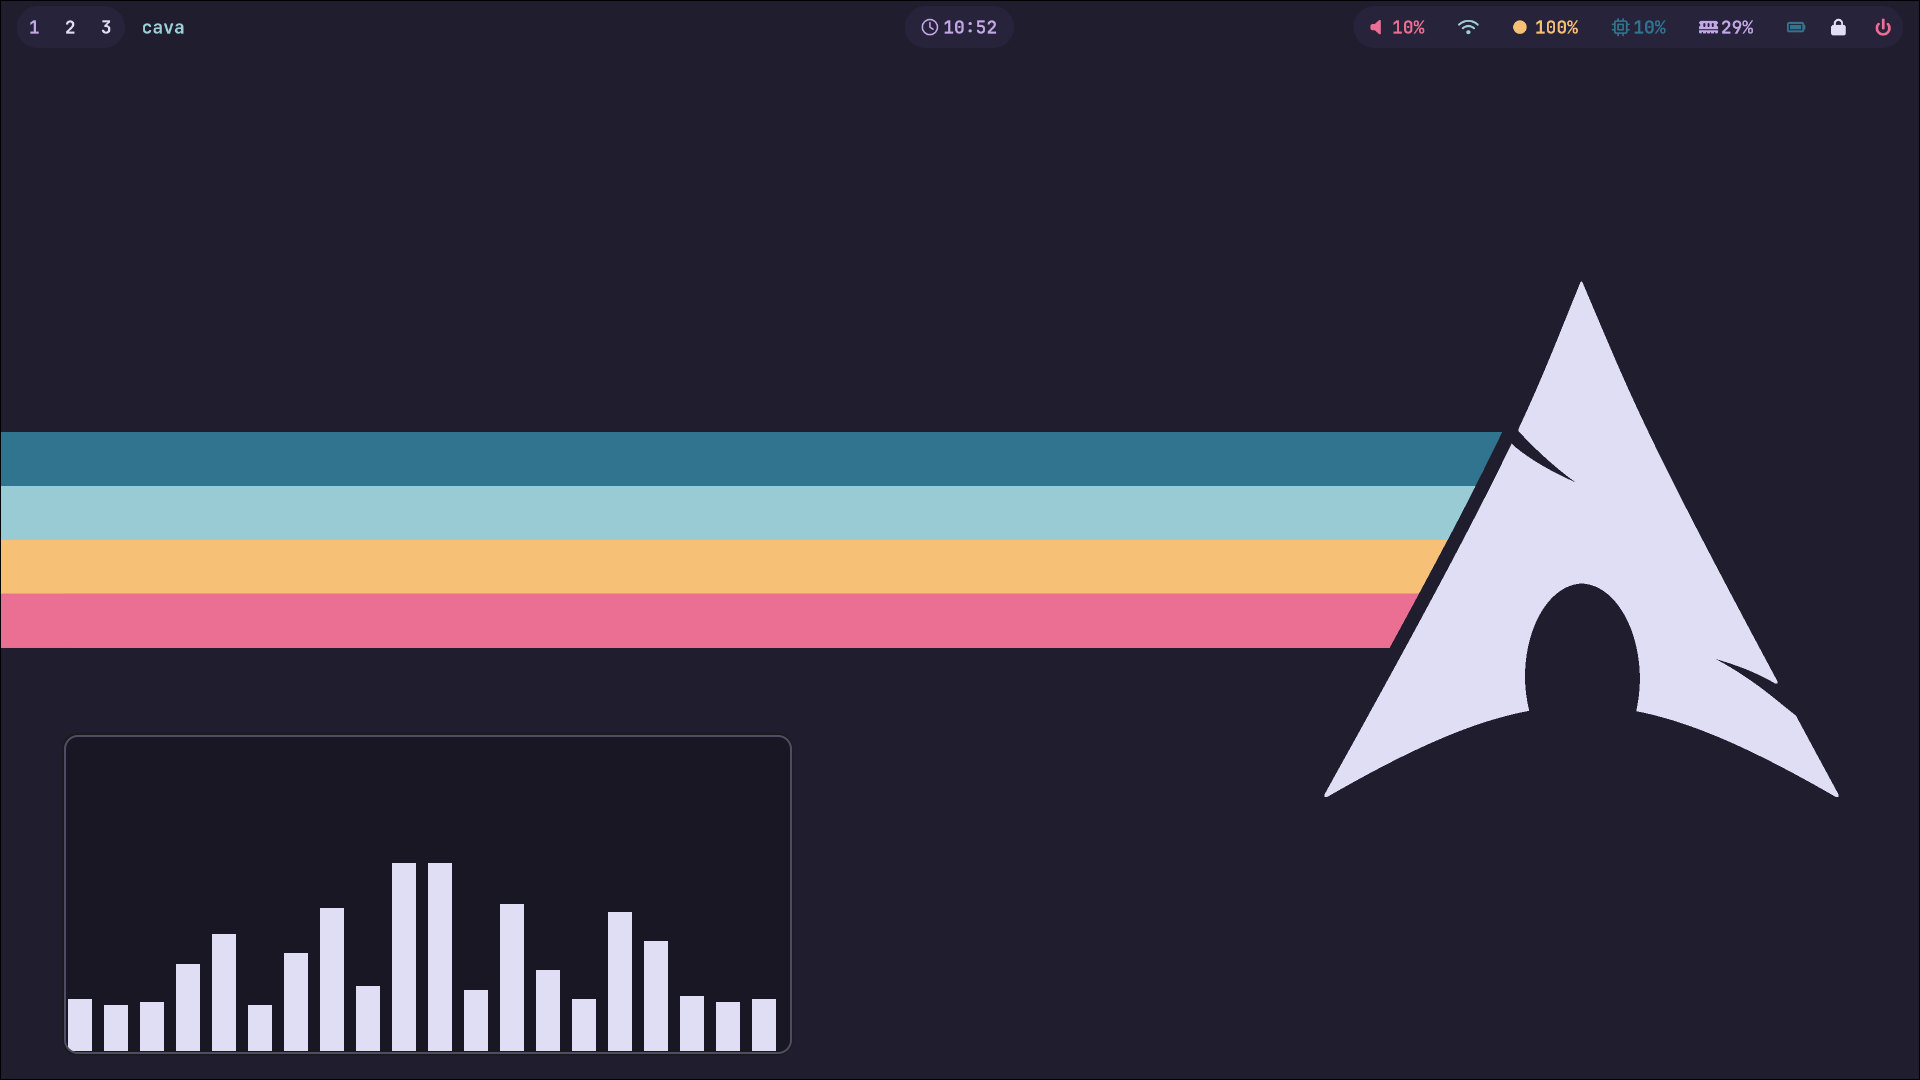
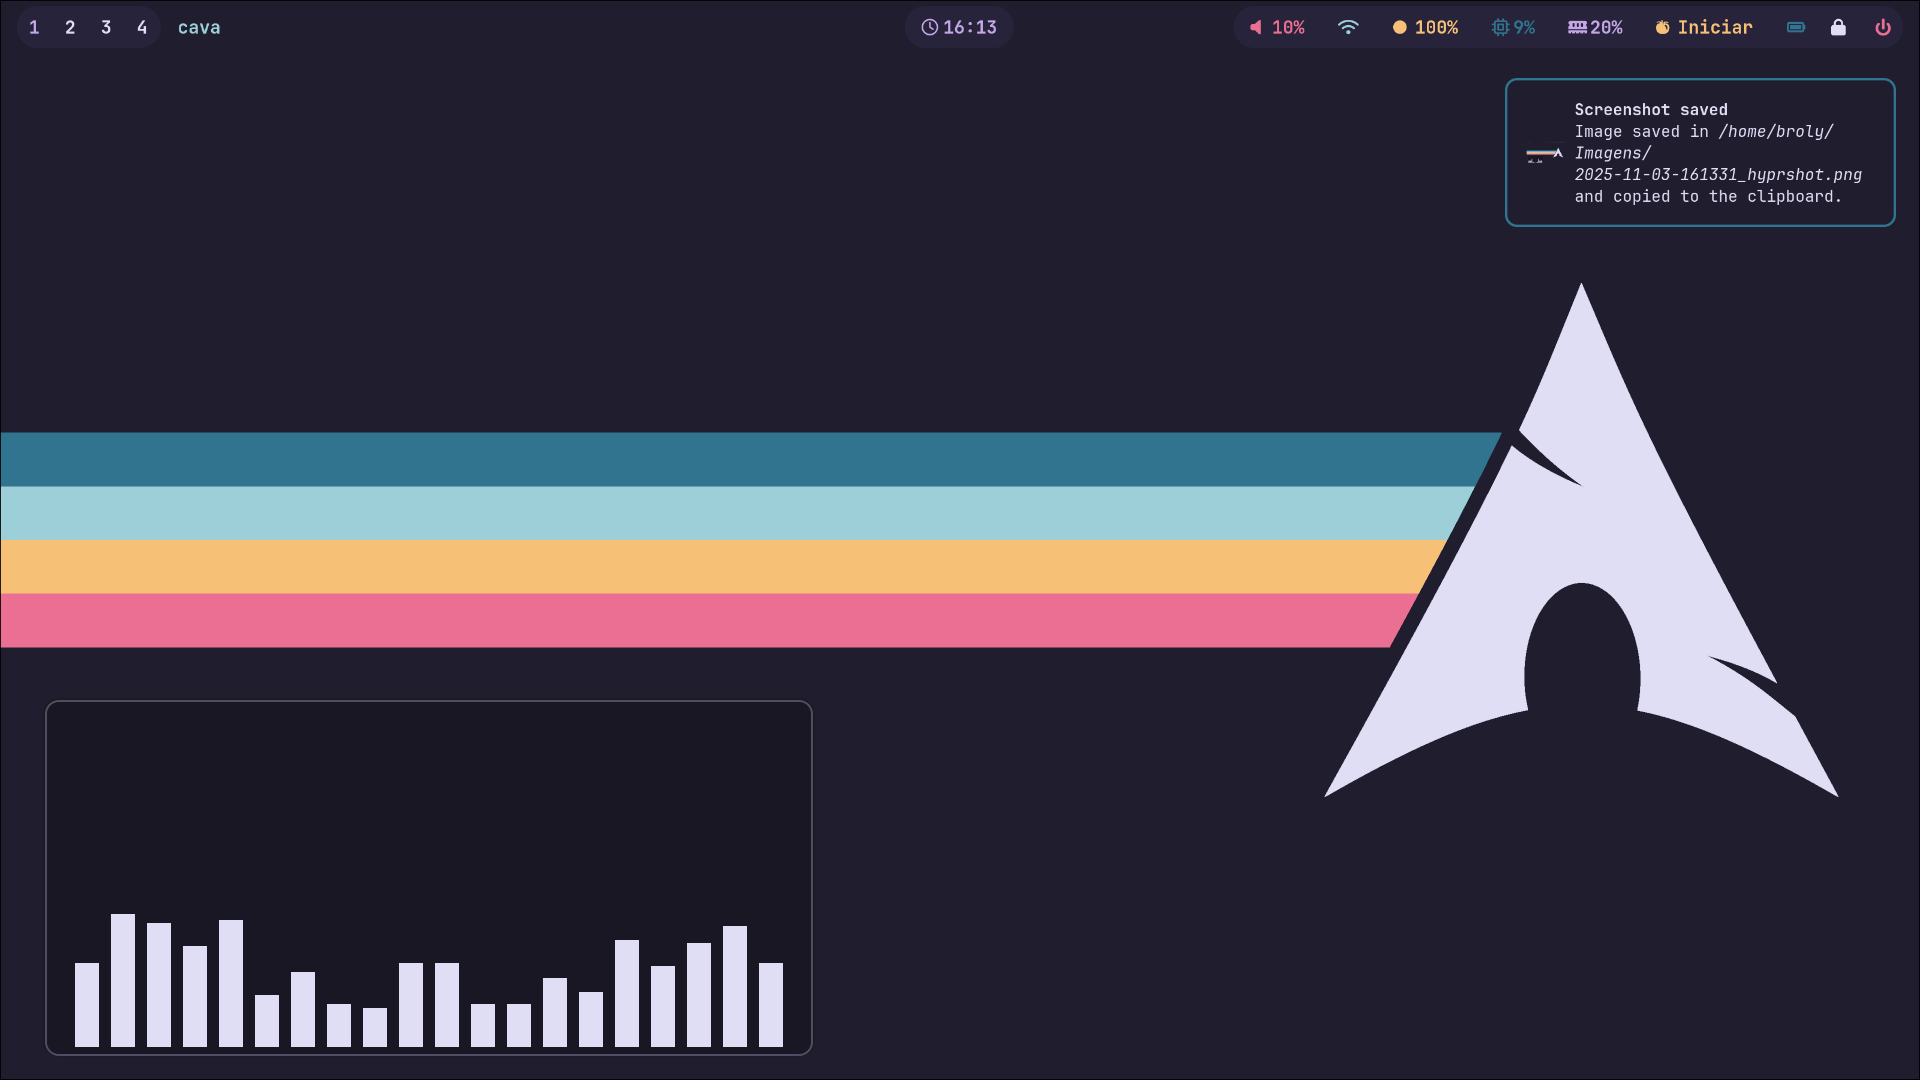
Add pomodoro on waybar

diff --git a/waybar/style.css b/waybar/style.css
@@ -64,6 +64,7 @@ window#waybar {
 #custom-wifi,
 #cpu,
 #memory,
+#custom-pomodoro,
 #custom-power {
   margin: 5px 0;
   padding: 0.5rem 1rem;
@@ -115,6 +116,10 @@ window#waybar.empty #window {
 
 #memory {
   color: @lavender;
+}
+
+#custom-pomodoro {
+  color: @peach;
 }
 
 #custom-power {

diff --git a/waybar/scripts/pomodoro.py b/waybar/scripts/pomodoro.py
@@ -1,0 +1,107 @@
+
+import argparse
+import json
+import os
+import time
+from datetime import datetime, timedelta
+import subprocess
+
+STATE_FILE = os.path.join(os.path.expanduser("~"), ".pomodoro_state.json")
+
+def get_state():
+    if not os.path.exists(STATE_FILE):
+        return {"status": "stopped", "end_time": None, "duration": 25, "type": "work"}
+    with open(STATE_FILE, "r") as f:
+        return json.load(f)
+
+def save_state(state):
+    with open(STATE_FILE, "w") as f:
+        json.dump(state, f)
+
+def start_timer(duration, timer_type):
+    timer_type_map = {
+        "work": "Trabalho",
+        "short_break": "Pausa Curta",
+        "long_break": "Pausa Longa"
+    }
+    translated_timer_type = timer_type_map.get(timer_type, timer_type.capitalize())
+    end_time = datetime.now() + timedelta(minutes=duration)
+    save_state({"status": "running", "end_time": end_time.isoformat(), "duration": duration, "type": timer_type})
+    print(f"Timer de Trabalho iniciado por 25 minutos.")
+
+def stop_timer():
+    save_state({"status": "stopped", "end_time": None, "duration": 25, "type": "work"})
+    print("Timer parado.")
+
+def get_status():
+    state = get_state()
+    if state["status"] == "running":
+        end_time = datetime.fromisoformat(state["end_time"])
+        remaining = end_time - datetime.now()
+        if remaining.total_seconds() <= 0:
+            timer_type = state.get("type", "work")
+            if timer_type == "work":
+                print("Trabalho: 00:00")
+                subprocess.run(["notify-send", "Pomodoro", "Seu tempo de trabalho acabou!"], check=False)
+            else:
+                print("Descanso: 00:00")
+                subprocess.run(["notify-send", "Pomodoro", "Seu tempo de descanso acabou!"], check=False)
+            stop_timer()
+        else:
+            minutes, seconds = divmod(int(remaining.total_seconds()), 60)
+            timer_type = state.get("type", "work")
+            if timer_type == "work":
+                icon = "뽀"
+            elif timer_type == "short_break":
+                icon = "쉬"
+            elif timer_type == "long_break":
+                icon = "장"
+            else:
+                icon = ""
+            if timer_type == "work":
+                prefix = "Trabalho"
+            elif timer_type == "short_break" or timer_type == "long_break":
+                prefix = "Descanso"
+            else:
+                prefix = "Timer" # Fallback
+            print(f'{prefix}: {minutes:02d}:{seconds:02d}')
+    else:
+        # Timer está parado
+        print("Iniciar")
+
+
+def main():
+    parser = argparse.ArgumentParser(description="CLI Timer para Waybar")
+    subparsers = parser.add_subparsers(dest="command")
+
+    start_parser = subparsers.add_parser("start", help="Inicia um novo timer.")
+    start_parser.add_argument("--work", type=int, default=25, help="Duração do trabalho em minutos.")
+    start_parser.add_argument("--short-break", type=int, default=5, help="Duração da pausa curta em minutos.")
+    start_parser.add_argument("--long-break", type=int, default=15, help="Duração da pausa longa em minutos.")
+
+    subparsers.add_parser("stop", help="Para o timer atual.")
+    subparsers.add_parser("status", help="Obtém o status atual do timer para Waybar.")
+
+    args = parser.parse_args()
+
+    if args.command == "start":
+        state = get_state()
+        if state["status"] == "running":
+            print("Timer já está rodando.")
+        else:
+            if "short_break" in args and args.short_break != 5:
+                start_timer(args.short_break, "short_break")
+            elif "long_break" in args and args.long_break != 15:
+                start_timer(args.long_break, "long_break")
+            else:
+                start_timer(args.work, "work")
+    elif args.command == "stop":
+        stop_timer()
+    elif args.command == "status":
+        get_status()
+    else:
+        get_status()
+
+if __name__ == "__main__":
+    main()
+
